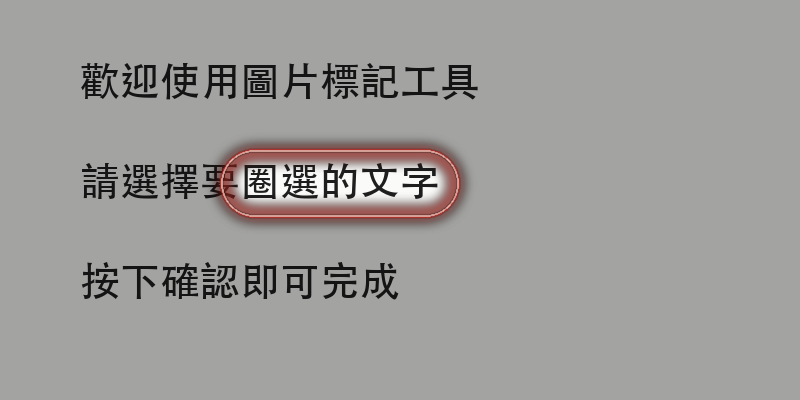
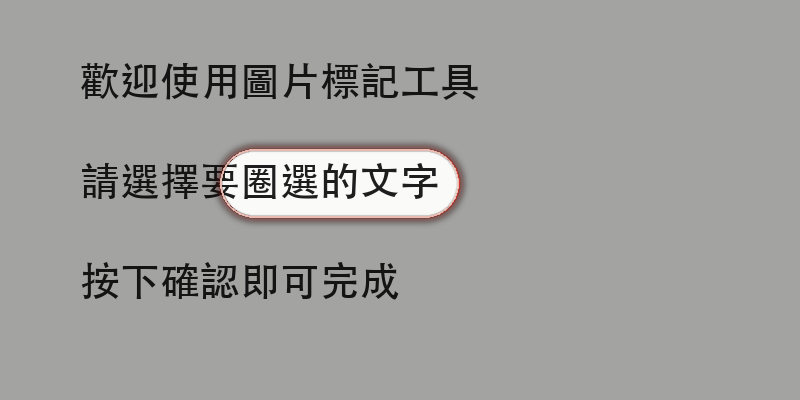
Scale ring width to box height and keep glow outside the box
Line width previously scaled only with image size, so circling small
text in a large screenshot produced a disproportionately thick ring
whose glow flooded the box interior and obscured the text. Cap the
width at 9% of the box height, and punch the interior out of the
blurred glow layer so light only spreads outward.

Changed region(s): [[0.25, 0.36, 0.5938, 0.57]]

diff --git a/circle_text.py b/circle_text.py
@@ -295,20 +295,29 @@ def draw_glow_highlight(img, padded_box, radius, color=(64, 156, 255)):
     """在框周圍畫出發光的圓角圈選框（iOS glow highlight 風格）。"""
     W, H = img.size
     x0, y0, x1, y1 = padded_box
+    box_h = y1 - y0
 
-    # 線寬與光暈大小依圖片尺寸縮放
-    lw = max(3, round(min(W, H) * 0.006))
+    # 線寬同時參考框的高度與圖片尺寸：大圖裡圈小字時，
+    # 若只按圖片尺寸縮放，粗線和光暈會不成比例地蓋住文字
+    lw = max(2, round(min(box_h * 0.09, min(W, H) * 0.006)))
     glow_blur = lw * 2.2
 
     img = img.convert("RGBA")
 
-    # 光暈層：畫粗的彩色框再高斯模糊，疊兩次讓光暈更亮
+    # 光暈層：畫粗的彩色框再高斯模糊，疊兩次讓光暈更亮；
+    # 把框內部挖空，讓光只向外暈開、不染到圈選的文字
     glow = Image.new("RGBA", (W, H), (0, 0, 0, 0))
     gd = ImageDraw.Draw(glow)
     gd.rounded_rectangle(
         (x0, y0, x1, y1), radius=radius, outline=color + (255,), width=lw * 3
     )
     glow = glow.filter(ImageFilter.GaussianBlur(glow_blur))
+    gd = ImageDraw.Draw(glow)
+    gd.rounded_rectangle(
+        (x0 + lw, y0 + lw, x1 - lw, y1 - lw),
+        radius=max(1, radius - lw),
+        fill=(0, 0, 0, 0),
+    )
     img.alpha_composite(glow)
     img.alpha_composite(glow)
 
